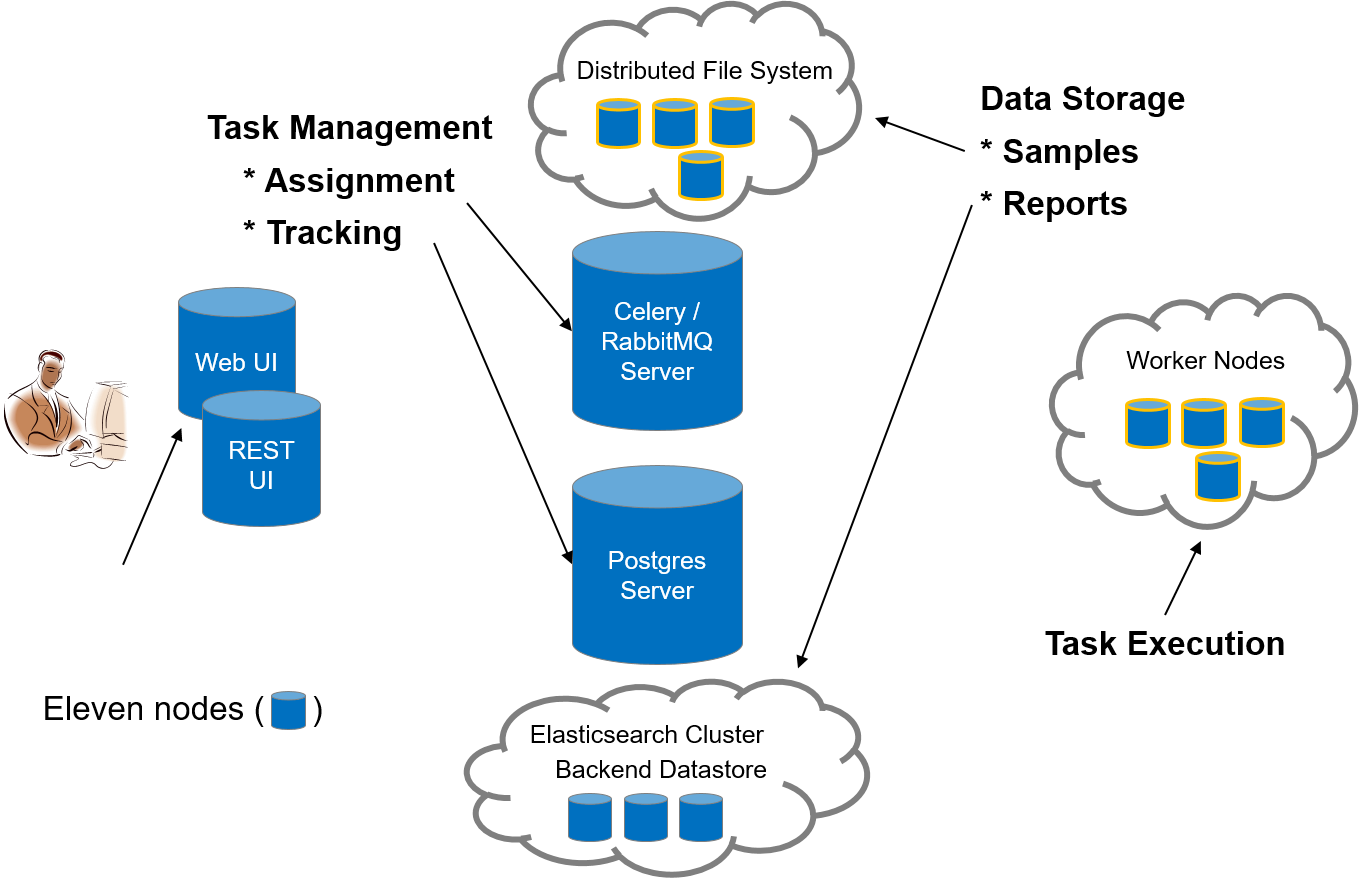
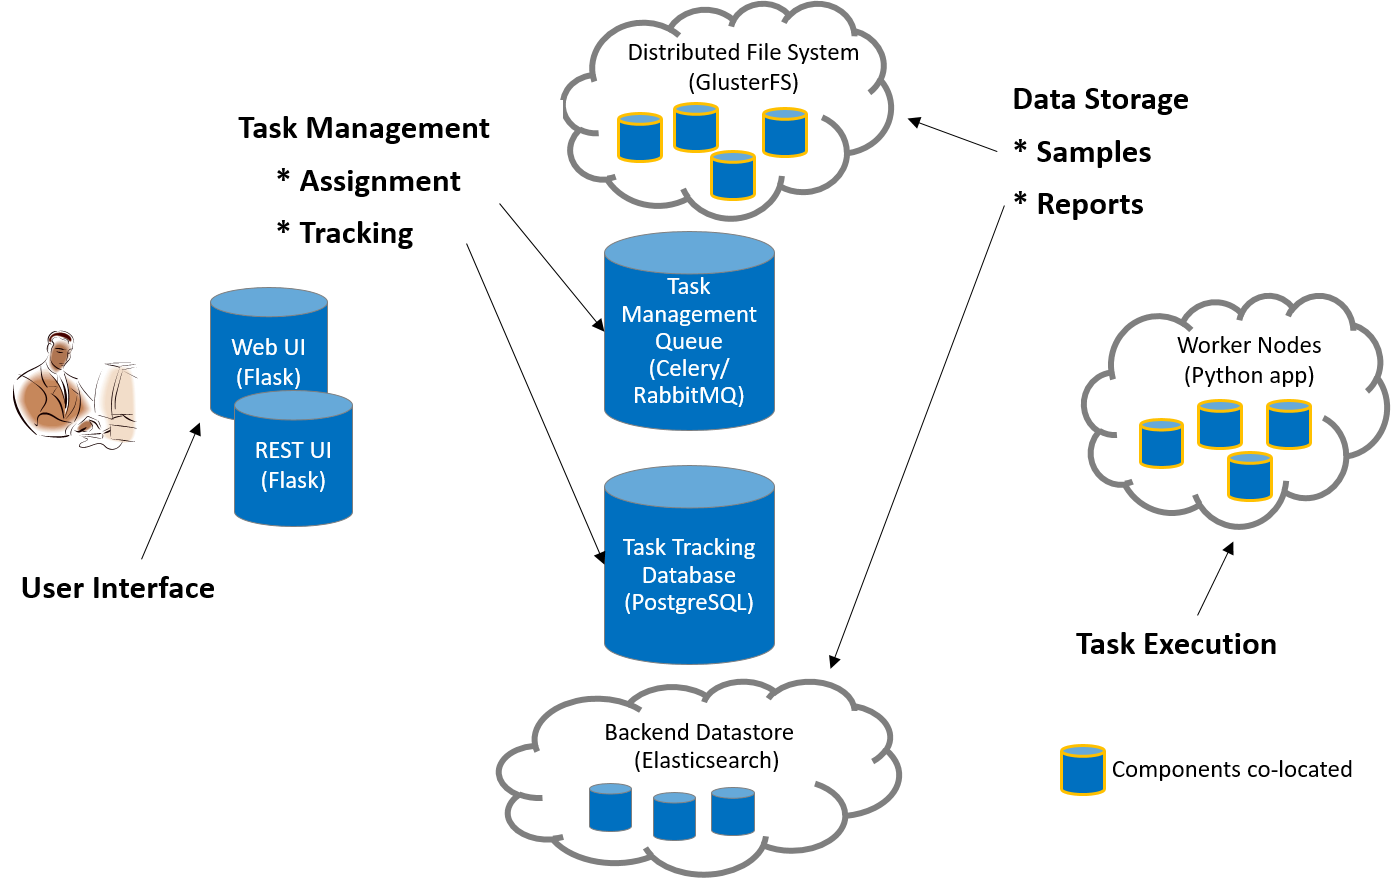
update

diff --git a/docs/install.md b/docs/install.md
@@ -1,5 +1,14 @@
 Installation
 ============
+System Requirements
+-------------------
+Python 3.6 is recommended. Compatibility with 2.7+ and
+3.4+ is supported but not as thoroughly maintained and tested. Please submit an issue
+or a pull request fixing any issues found with other versions of Python.
+
+
+An installer script is included in the project [install.sh](<install.sh>), which
+installs the prerequisites on most systems.
 
 ### MultiScanner ###
 If you're running on a RedHat or Debian based linux distribution you should try and run
@@ -24,3 +33,125 @@ be identified in the configuration file, config.ini. To do this, set the `copyfi
 option under `[main]` to be the mount point on the system running MultiScanner.
 Modules can have a `replacement path` option, which is the network share mount point
 on the analytic machine.
+
+Installing Ansible
+------------------
+
+Installing Analytic Machines
+----------------------------
+
+Installing Elasticsearch
+------------------------
+
+Module Configuration
+--------------------
+Module Writing
+--------------
+Modules are intended to be quickly written and incorporated into the framework.
+A finished module must be placed in the modules folder before it can be used. The
+configuration file does not need to be manually updated. See [docs/module\_writing.md](<docs/module_writing.md>)
+for more information.
+
+Module Configuration
+--------------------
+Modules are configured within the configuration file, config.ini. See
+[docs/modules.md](<docs/modules.md>) for more information.
+
+Default Modules
+---------------
+
+### General ###
+- **path** - This is where the executable is located
+- **cmdline** - This is an array of command line options be to passed to the executable
+- **host** - This is the hostname, port, and username of the machine that will be SSHed into to run the analytic if the executable is not present on the local machine.
+- **key** - This is the SSH key to be used to SSH into the host.
+- **replacement path** - If the main config is set to copy the scanned files this will be what it replaces the path with. It should be where the network share is mounted
+- **ENABLED** - When set to false the module will not run
+
+### [main] ###
+This is the configuration for the main script
+
+- **copyfilesto** - This is where the script will copy each file that is to be scanned. This can be removed or set to False to disable this feature
+- **group-types** - This is the type of analytics to group into sections for the report. This can be removed or set to False to disable this feature
+
+### [AVGScan] ###
+This module scans a file with AVG 2014 anti-virus.
+
+### [ClamAVScan] ###
+This module scans a file with ClamAV.
+
+### [Cuckoo] ###
+This module submits a file to a Cuckoo Sandbox cluster for analysis
+
+- **API URL** - This is the URL to the API server
+- **timeout** - This is max time a sample with run for
+- **running timeout** - This is an additional timeout, if a task is in the running state this many seconds past **timeout** we will consider the task failed.
+- **delete tasks** - When set to True, tasks will be deleted from cuckoo after detonation. This is to prevent filling up the Cuckoo machine's disk with reports.
+- **maec** - When set to True, [MAEC](https://maecproject.github.io) JSON report is added to Cuckoo JSON report. *NOTE*: Cuckoo needs MAEC reporting enabled to produce results.
+
+### [VxStream] ###
+This module submits a file to a VxStream Sandbox cluster for analysis
+
+- **API URL** - This is the URL to the API server (include the /api/ in this URL)
+- **API Key** - This is the user's API key to the API server
+- **API Secret** - This is the user's secret to the API server
+- **timeout** - This is max time a sample with run for
+- **running timeout** - This is an additional timeout, if a task is in the running state this many seconds past **timeout** we will consider the task failed.
+
+### [ExifToolsScan] ###
+This module scans the file with Exif tools and returns the results.
+
+- **remove-entry** - A python list of ExifTool results that should not be included in the report. File system level attributes are not useful and stripped out 
+
+### [FireeyeScan] ###
+This module uses a FireEye AX to scan the files. It uses the Malware Repository feature to automatically scan files. This may not be the best way but it does work. It will copy the files to be scanned to the mounted share folders.
+*NOTE*: This module is suuuuuper slow
+
+- **base path** - The mount point where the fireeye images folders are
+- **src folder** - The folder name where input files are put
+- **fireeye images** - A python list of the VMs in fireeye. These are used to generate where to copy the files.
+- **enabled** - True or False
+- **good path** - The folder name where good files are put
+- **cheatsheet** - Not implemented yet
+
+### [MD5] ###
+This module generates the MD5 hash of the files.
+
+### [McAfeeScan] ###
+This module scans the files with McAfee AntiVirus Command Line.
+
+### [PEFile] ###
+This module extracts out feature information from EXE files. It uses [pefile](https://code.google.com/p/pefile/) which is currently not available for python 3.
+
+### [SHA256] ###
+This module generates the SHA256 hash of the files.
+
+### [Tika] ###
+This module extracts metadata from the file using [Tika](https://tika.apache.org/). For configuration of the module see the [tika-python](https://github.com/chrismattmann/tika-python/blob/master/README.md) documentation.
+
+- **remove-entry** - A python list of Tika results that should not be included in the report.
+
+### [TrID] ###
+This module runs [TrID](http://mark0.net/soft-trid-e.html) against the files. The definition file should be in the same folder as the executable
+
+### [YaraScan] ###
+This module scans the files with yara and returns the results. You will need yara-python installed for this module.
+
+- **ruledir** - The directory to look for rule files in
+- **fileextensions** - A python array of all valid rule file extensions. Files not ending in one of these will be ignored.
+- **ignore-tags** - A python array of yara rule tags that will not be included in the report.
+
+### [libmagic] ###
+This module runs libmagic against the files.
+
+- **magicfile** - The path to the compiled magic file you wish to use. If None it will use the default one.
+
+### [pdfinfo] ###
+This module extracts out feature information from PDF files. It uses [pdf-parser](http://blog.didierstevens.com/programs/pdf-tools/)
+
+### [ssdeeper] ###
+This module generates context triggered piecewise hashes (CTPH) for the files. More information can be found on the [ssdeep website](http://ssdeep.sourceforge.net/).
+
+### [vtsearch] ###
+This module searches [virustotal](https://www.virustotal.com/) for the files hash and download the report if available.
+- **apikey** - This is your public/private api key. You can optionally make it a list and the requests will be distributed across them. This is useful when two groups with private api keys want to share the load and reports

diff --git a/docs/index.md b/docs/index.md
@@ -10,29 +10,8 @@ Currently written and maintained modules are related to malware analytics, but t
 scope. For a list of modules you can look in [modules](modules), descriptions and config
 options can be found in [docs/modules.md](docs/modules.md)
 
-Requirements
-------------
-Python 3.6 is recommended. Compatibility with 2.7+ and
-3.4+ is supported but not as thoroughly maintained and tested. Please submit an issue
-or a pull request fixing any issues found with other versions of Python.
+Key Capabilities
+----------------
+MultiScanner helps the malware analyst, tying everything together, providing integration and scaling capabilities and enabling analysis with multiple tools – both automated tools and manual tools. It allows analysts to associate metadata with samples and also allows integration of data from external sources. It’s particularly useful because all the data is linked across tools and samples, allowing analysts to pivot on data and to do analytics. 
 
-
-An installer script is included in the project [install.sh](<install.sh>), which
-installs the prerequisites on most systems.
-
-
-Python API
-----------
-MultiScanner can be incorporated as a module in another projects. Below is a simple
-example of how to import MultiScanner into a Python script.
-
-``` python
-import multiscanner
-output = multiscanner.multiscan(FileList)
-Results = multiscanner.parse_reports(output, python=True)
-```
-
-Results is a dictionary object where each key is a filename of a scanned file.
-
-`multiscanner.config_init(filepath)` will create a default configuration file at
-the location defined by filepath.
+![overview](../img/overview.png "Figure 1. Overview")

diff --git a/docs/example.md b/docs/example.md
@@ -1,0 +1,48 @@
+``` python
+from __future__ import division, absolute_import, with_statement, print_function, unicode_literals
+
+TYPE = "Example"
+NAME = "include example"
+REQUIRES = ["libmagic", "MD5"]
+DEFAULTCONF = {
+'ENABLED': True,
+}
+
+def check(conf=DEFAULTCONF):
+# If the config disabled the module don't run
+	if not conf['ENABLED']:
+return False
+	# If one of the required modules failed, don't run
+  	if None in REQUIRES:
+		return False
+	return True
+
+def scan(filelist, conf=DEFAULTCONF):
+	# Define our results array
+	results = []
+	# Pull out the libmagic results and metadata
+	libmagicresults, libmagicmeta = REQUIRES[0]
+
+	# Pull out the md5 results and metadata
+	md5results, md5meta = REQUIRES[1]
+	# Make the md5 results a dictionary
+	md5dict = dict(md5results)
+
+	# Run through each value in the libmagic results
+	for filename, libmagicresult in libmagicresults:
+		if libmagicresult.startswith('PDF document'):
+		# If the file's md5 is present we will use that in the results
+		if filename in md5dict:
+			results.append((filename, md5dict[filename] + " is a pdf"))
+		# If we don't know the md5 use the filename instead
+		else:
+			results.append((filename, "is a pdf"))
+
+	# Create out metadata dictionary
+	metadata = {}
+	metadata["Name"] = NAME
+	metadata["Type"] = TYPE
+
+	# Return our super awesome results
+	return (results, metadata)
+```

diff --git a/docs/using.md b/docs/using.md
@@ -1,0 +1,22 @@
+Using MultiScanner
+------------------
+
+Default Modules
+---------------
+
+Web User Interface
+------------------
+
+API
+---
+Via its RESTful API, MultiScanner can be incorporated as a module in another project. Below is a simple example of how to import MultiScanner into a Python script.
+
+``` python
+import multiscanner
+output = multiscanner.multiscan(FileList)
+Results = multiscanner.parse_reports(output, python=True)
+```
+`Results` is a dictionary object where each key is a filename of a scanned file.
+
+`multiscanner.config_init(filepath)` will create a default configuration file at
+the location defined by filepath.

diff --git a/docs/arch.md b/docs/arch.md
@@ -1,0 +1,11 @@
+Architecture
+------------
+The MultiScanner architecture is shown in Figure 1. Task management components (Celery/RabbitMQ Server and Postgres Server) provide task assignment and tracking. Data storage is available for both malware samples (distributed file system) and analysis results (Elasticsearch cluster). Worker nodes execute tasks.
+
+![architecture1](../img/arch1.png "Figure 1")
+
+Workflow
+--------
+The MultiScanner workflow is shown in Figure 2. Each step is described below the figure.
+
+![architecture2](../img/arch2.png "Figure 2")

diff --git a/docs/custom/analytic-module.md b/docs/custom/analytic-module.md
@@ -1,0 +1,2 @@
+Analytics
+---------
